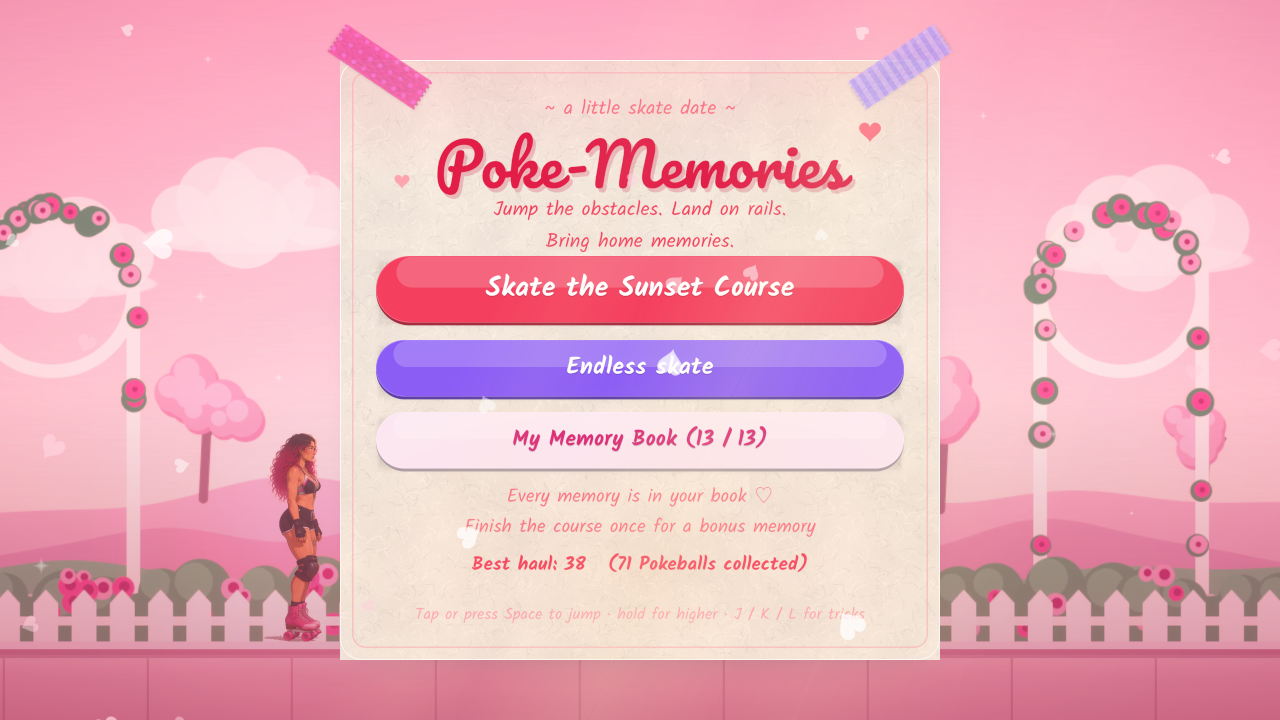
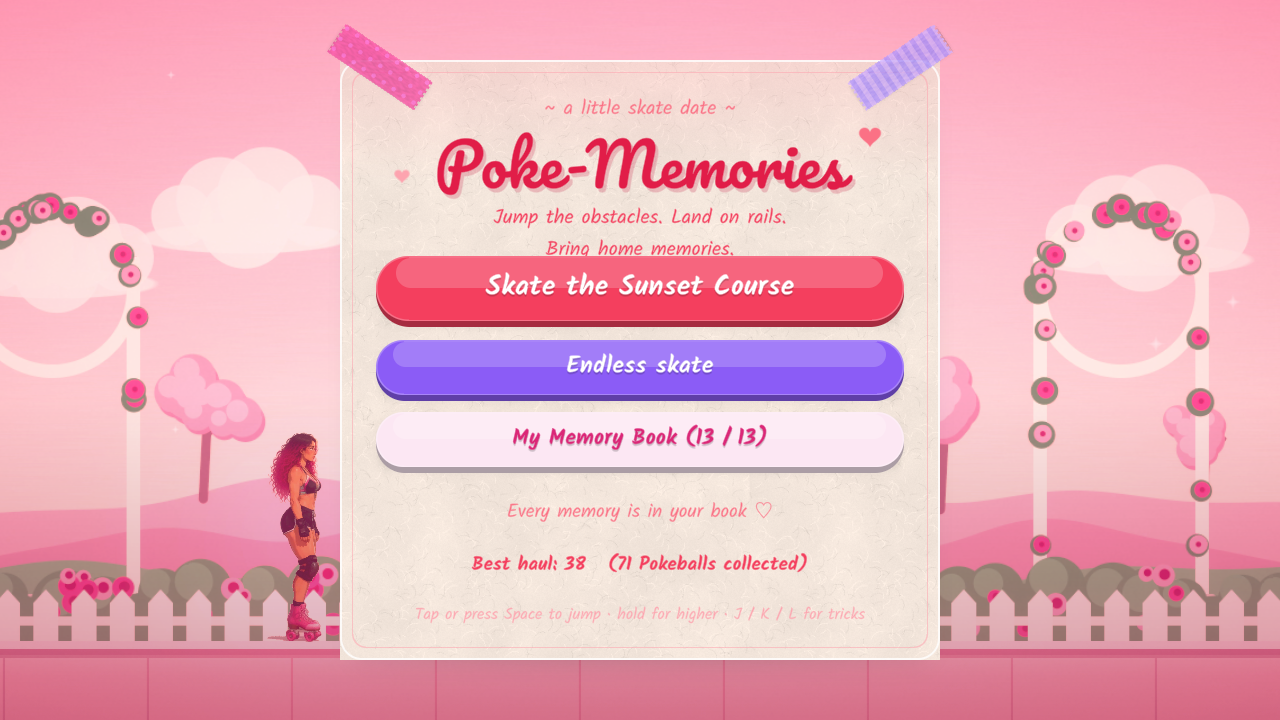
Polish: realistic strip-rendered page curl, colour grade + film grain, phone checks

diff --git a/unity/Assets/Scripts/Menu/MemoryBook.cs b/unity/Assets/Scripts/Menu/MemoryBook.cs
@@ -735,21 +735,13 @@ namespace PokeMemories.Menu
             var forward = turnTo > index;
             var a = index;
             var b = turnTo;
-            var spine = new Vector2(SpineX, book.center.y);
 
             if (spread)
             {
-                // The turning page folds about the spine: its front narrows to nothing, then its
-                // back widens on the other side.
+                // The resting pages under the sheet, then the sheet itself as a curled strip.
                 DrawPage(forward ? a : b, 0, leftPage);
                 DrawPage(forward ? b : a, 1, rightPage);
-                var firstHalf = t < 0.5f;
-                var width = Mathf.Max(0.001f, firstHalf ? 1 - 2 * t : 2 * t - 1);
-                int idx, side;
-                if (forward) { idx = firstHalf ? a : b; side = firstHalf ? 1 : 0; }
-                else { idx = firstHalf ? a : b; side = firstHalf ? 0 : 1; }
-                var page = side == 0 ? leftPage : rightPage;
-                Flip(width, spine, idx, side, page, t);
+                DrawCurl(Mathf.Min(a, b), Mathf.Max(a, b), forward, t);
             }
             else
             {
@@ -757,6 +749,131 @@ namespace PokeMemories.Menu
                 var width = Mathf.Max(0.001f, forward ? 1 - t : t);
                 Flip(width, new Vector2(book.x, book.center.y), forward ? a : b, -1, singlePage, t);
             }
+        }
+
+        // ───────────── Page curl ─────────────
+        // The turning sheet is drawn as a bent ribbon: both faces are rendered into full-screen
+        // textures, then sliced into thin vertical strips whose position, height and brightness
+        // follow a simulated curve (orthographic position, mild perspective, Lambert-style shading).
+
+        RenderTexture frontRT, backRT;
+        const int CurlStrips = 56;
+
+        RenderTexture PageTexture(ref RenderTexture rt)
+        {
+            if (rt == null || rt.width != Screen.width || rt.height != Screen.height)
+            {
+                if (rt != null) rt.Release();
+                rt = new RenderTexture(Screen.width, Screen.height, 0, RenderTextureFormat.ARGB32) { filterMode = FilterMode.Bilinear, useMipMap = false };
+                rt.Create();
+            }
+            return rt;
+        }
+
+        void RenderPage(RenderTexture rt, int idx, int side, Rect page)
+        {
+            var previous = RenderTexture.active;
+            RenderTexture.active = rt;
+            GL.Clear(true, true, new Color(0, 0, 0, 0));
+            DrawPage(idx, side, page);
+            RenderTexture.active = previous;
+        }
+
+        void DrawCurl(int lo, int hi, bool forward, float t)
+        {
+            var front = PageTexture(ref frontRT);
+            var back = PageTexture(ref backRT);
+            RenderPage(front, lo, 1, rightPage);
+            RenderPage(back, hi, 0, leftPage);
+
+            float W = Screen.width, H = Screen.height;
+            var pw = rightPage.width;
+            var spineX = SpineX;
+            var cy = book.center.y;
+            var dir = forward ? t : 1 - t;                 // 0 = sheet flat on the right, 1 = flat on the left
+            var theta = dir * Mathf.PI;
+            // The leading edge runs ahead of the spine, so the sheet bows; the bow eases off as it lands.
+            var bow = 1.5f * Mathf.Sin(theta) * (forward ? 1f - 1.1f * t : -(1f - 1.1f * (1 - t)));
+            var light = new Vector2(-0.45f, 0.9f).normalized;
+
+            var xs = new float[CurlStrips + 1];
+            var zs = new float[CurlStrips + 1];
+            var al = new float[CurlStrips];
+            float x = 0, z = 0;
+            var du = pw / CurlStrips;
+            for (var i = 0; i < CurlStrips; i++)
+            {
+                var u = (i + 0.5f) / CurlStrips;
+                var alpha = Mathf.Clamp(theta + bow * u, 0f, Mathf.PI);
+                al[i] = alpha;
+                xs[i] = x; zs[i] = z;
+                x += Mathf.Cos(alpha) * du;
+                z += Mathf.Sin(alpha) * du;
+            }
+            xs[CurlStrips] = x; zs[CurlStrips] = z;
+
+            var persp = 0.16f / pw;
+
+            // Shadow the lifted sheet throws on whatever lies beneath it: one soft band covering the
+            // shifted footprint of the raised part, darkest where the sheet is highest.
+            float sMin = float.MaxValue, sMax = float.MinValue, peak = 0;
+            for (var i = 0; i <= CurlStrips; i++)
+            {
+                if (zs[i] < 0.02f * pw) continue;
+                var sx = spineX + xs[i] + zs[i] * 0.45f;
+                sMin = Mathf.Min(sMin, sx); sMax = Mathf.Max(sMax, sx);
+                peak = Mathf.Max(peak, zs[i]);
+            }
+            if (sMax > sMin)
+            {
+                var k = Mathf.SmoothStep(0, 1, peak / (0.35f * pw));
+                var h = rightPage.height * 0.985f;
+                var band = new Rect(sMin, cy - h / 2 + 8 * s, sMax - sMin, h);
+                UIKit.Fill(band, UIKit.WithAlpha(Color.black, 0.2f * k));
+                var soft = 46 * s;
+                Look.FadeRight(new Rect(sMax, band.y, soft, band.height), UIKit.WithAlpha(Color.black, 0.2f * k));
+                Look.FadeLeft(new Rect(sMin - soft, band.y, soft, band.height), UIKit.WithAlpha(Color.black, 0.2f * k));
+            }
+            float page_h(float zz) => rightPage.height * (1 + persp * zz);
+
+            var old = GUI.color;
+            for (var i = 0; i < CurlStrips; i++)
+            {
+                var alpha = al[i];
+                var isFront = alpha < Mathf.PI / 2;
+                var tex = isFront ? front : back;
+                var u0 = i * du;
+                var u1 = (i + 1) * du;
+                float s0, s1;
+                if (isFront) { s0 = rightPage.x + u0; s1 = rightPage.x + u1; }
+                else { s0 = leftPage.xMax - u0; s1 = leftPage.xMax - u1; }
+                float sx0 = spineX + xs[i], sx1 = spineX + xs[i + 1];
+                if (sx1 < sx0) { (sx0, sx1) = (sx1, sx0); (s0, s1) = (s1, s0); }
+                var zmid = (zs[i] + zs[i + 1]) * 0.5f;
+                var h = page_h(zmid);
+                // Normal of the visible face and a simple diffuse + sheen term.
+                var n = isFront ? new Vector2(-Mathf.Sin(alpha), Mathf.Cos(alpha)) : new Vector2(Mathf.Sin(alpha), -Mathf.Cos(alpha));
+                var diffuse = Mathf.Clamp01(Vector2.Dot(n, light));
+                var shade = Mathf.Lerp(0.86f, 1f, diffuse);
+                var rect = new Rect(sx0 - 0.5f, cy - h / 2, sx1 - sx0 + 1f, h);
+                GUI.color = new Color(shade, shade, shade, 1);
+                GUI.DrawTextureWithTexCoords(rect, tex, UvFor(s0, s1, W, H, h));
+            }
+            GUI.color = old;
+
+            // A hairline of light along the top of the fold, where the paper catches the lamp.
+            var edgeX = spineX + xs[CurlStrips];
+            var eh = page_h(zs[CurlStrips]);
+            UIKit.Fill(new Rect(edgeX - 1, cy - eh / 2, 2, eh), UIKit.WithAlpha(Color.white, 0.25f * Mathf.Sin(theta)));
+        }
+
+        Rect UvFor(float s0, float s1, float W, float H, float drawnHeight)
+        {
+            // The page occupies the same vertical band in the texture as on screen; stretching the
+            // strip taller or shorter then gives the perspective for free.
+            var top = rightPage.y;
+            var bottom = rightPage.yMax;
+            return new Rect(s0 / W, 1 - bottom / H, (s1 - s0) / W, (bottom - top) / H);
         }
 
         void Flip(float widthScale, Vector2 pivot, int idx, int side, Rect page, float t)

diff --git a/unity/Assets/Scripts/Gameplay/VisualPolish.cs b/unity/Assets/Scripts/Gameplay/VisualPolish.cs
@@ -20,6 +20,7 @@ namespace PokeMemories.Gameplay
         VolumeProfile profile;
         Bloom bloom;
         Vignette vignette;
+        ChromaticAberration aberration;
 
         public void Bind(CourseSimulation simulation, Camera camera, Material spriteMaterial, Transform skater)
         {
@@ -59,6 +60,17 @@ namespace PokeMemories.Gameplay
             var grade = profile.Add<ColorAdjustments>();
             grade.saturation.Override(10f);
             grade.contrast.Override(6f);
+            grade.postExposure.Override(0.1f);
+            // Warm highlights and rosy shadows: a gentle golden-hour grade over the pastel art.
+            var lgg = profile.Add<LiftGammaGain>();
+            lgg.lift.Override(new Vector4(1.04f, 0.97f, 1.02f, -0.02f));
+            lgg.gain.Override(new Vector4(1.04f, 1.0f, 0.95f, 0.03f));
+            var grain = profile.Add<FilmGrain>();
+            grain.type.Override(FilmGrainLookup.Thin1);
+            grain.intensity.Override(0.16f);
+            grain.response.Override(0.85f);
+            aberration = profile.Add<ChromaticAberration>();
+            aberration.intensity.Override(0f);
             var volume = new GameObject("Post Volume").AddComponent<Volume>();
             volume.transform.SetParent(transform, false);
             volume.isGlobal = true;
@@ -94,6 +106,8 @@ namespace PokeMemories.Gameplay
             trail.time = 0.2f + intensity * 0.3f;
             skaterGlow.intensity = 0.3f + intensity * 0.5f + sim.BoostPulse * 0.3f;
             bloom.intensity.value = 0.45f + intensity * 0.35f + sim.BoostPulse * 0.25f;
+            aberration.intensity.value = Mathf.Lerp(aberration.intensity.value, sim.BoostPulse * 0.35f, 0.3f);
+            vignette.intensity.value = 0.2f + intensity * 0.1f;
         }
 
         float flow = 1;
@@ -104,7 +118,7 @@ namespace PokeMemories.Gameplay
         /// </summary>
         void OnGUI()
         {
-            if (Event.current.type != EventType.Repaint) return;
+            if (Event.current.type != EventType.Repaint || Look.BookOpen) return;
             Look.Ensure();
             float W = Screen.width, H = Screen.height, k = H / 720f, t = Time.time;
             var pace = sim != null ? sim.Pace : 1f;

diff --git a/unity/Assets/Scripts/Menu/MenuFlow.cs b/unity/Assets/Scripts/Menu/MenuFlow.cs
@@ -30,6 +30,7 @@ namespace PokeMemories.Menu
         public void ShowMenu()
         {
             Screen = GameScreen.Menu;
+            Look.BookOpen = true; // hides the in-run atmosphere layer
             menuTime = 0;
             game.ResetToStart();
         }
@@ -37,12 +38,14 @@ namespace PokeMemories.Menu
         public void StartRun(PlayMode mode)
         {
             Screen = GameScreen.Playing;
+            Look.BookOpen = false;
             game.BeginRun(mode);
         }
 
         public void OpenBook(int newMemories = 0)
         {
             Screen = GameScreen.Book;
+            Look.BookOpen = true;
             book.Open(newMemories);
         }
 
@@ -141,7 +144,7 @@ namespace PokeMemories.Menu
             var bob = Mathf.Sin(Time.unscaledTime * 2.2f) * 3 * s;
             Look.HeartAt(new Vector2(card.xMax - 70 * s, card.y + 72 * s + bob), 26 * s, UIKit.Rose400);
             Look.HeartAt(new Vector2(card.x + 62 * s, card.y + 118 * s - bob), 18 * s, UIKit.Rose300);
-            UIKit.Label(new Rect(card.x + 24 * s, card.y + 138 * s, card.width - 48 * s, 56 * s),
+            UIKit.Label(new Rect(card.x + 24 * s, card.y + 146 * s, card.width - 48 * s, 56 * s),
                 "Jump the obstacles. Land on rails.\nBring home memories.", 20 * s, UIKit.Rose500, TextAnchor.MiddleCenter, true, FontStyle.Normal);
 
             Stagger(0, () => UIKit.Button(Row(card, s, 196, 68), "Skate the Sunset Course", UIKit.Rose500, Color.white, 28 * s), s);

diff --git a/unity/Assets/Scripts/Menu/Look.cs b/unity/Assets/Scripts/Menu/Look.cs
@@ -11,6 +11,8 @@ namespace PokeMemories.Menu
     public static class Look
     {
         public static Font Title, Hand, HandBold, Script;
+        /// <summary>True off the course (menu, book) so the in-run atmosphere layer stays hidden.</summary>
+        public static bool BookOpen = true;
         public static Texture2D GradH, Paper, Cloth, Shadow9, Glow, GradV, Felt, Vignette, Sparkle, Heart;
         public static Texture2D[] Washi;
 
